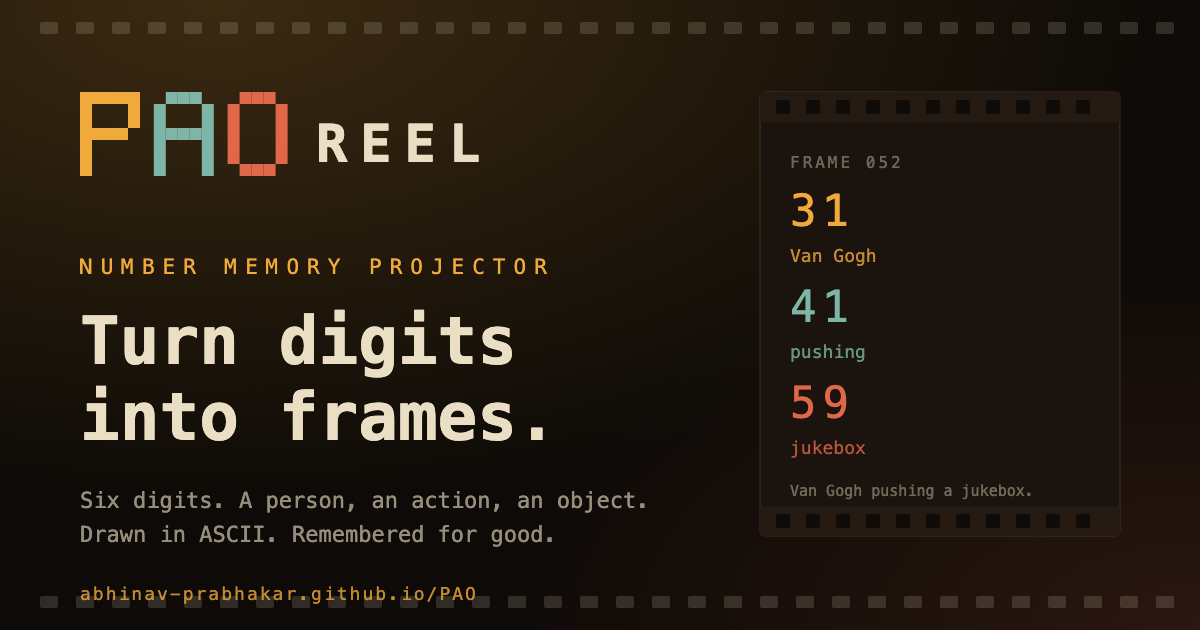
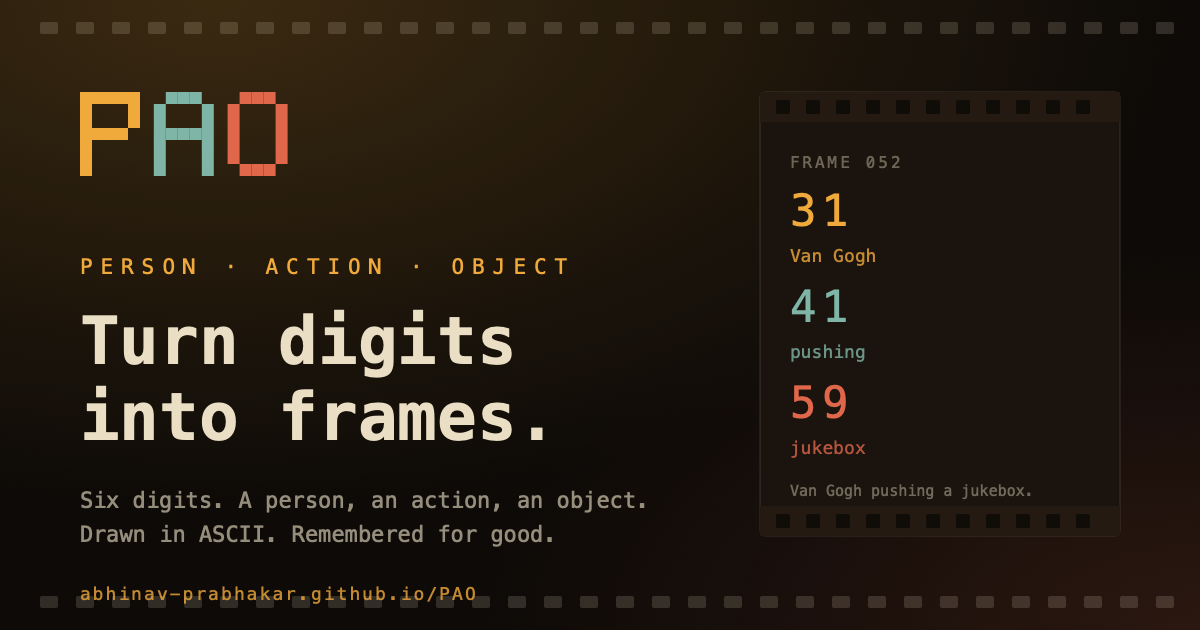
chore: rename the site to PAO

diff --git a/index.html b/index.html
@@ -4,10 +4,10 @@
     <meta charset="UTF-8" />
     <meta name="viewport" content="width=device-width, initial-scale=1.0" />
 
-    <title>PAO Reel — Number Memory Projector</title>
+    <title>PAO</title>
     <meta
       name="description"
-      content="PAO Reel turns long digit strings into six-digit film frames: a Person, an Action, and an Object drawn in ASCII, with a recall trainer."
+      content="PAO turns long digit strings into six-digit film frames: a Person, an Action, and an Object drawn in ASCII, with a recall trainer."
     />
     <meta name="application-name" content="PAO" />
     <meta name="color-scheme" content="dark" />
@@ -25,10 +25,10 @@
     <meta name="apple-mobile-web-app-title" content="PAO" />
 
     <meta property="og:type" content="website" />
-    <meta property="og:site_name" content="PAO Reel" />
+    <meta property="og:site_name" content="PAO" />
     <meta property="og:locale" content="en_US" />
     <meta property="og:url" content="https://abhinav-prabhakar.github.io/PAO/" />
-    <meta property="og:title" content="PAO Reel — Number Memory Projector" />
+    <meta property="og:title" content="PAO" />
     <meta
       property="og:description"
       content="Six digits become a Person, an Action, and an Object drawn in ASCII. A projector for pi, phone numbers, and anything worth remembering."
@@ -36,10 +36,10 @@
     <meta property="og:image" content="https://abhinav-prabhakar.github.io/PAO/og.png" />
     <meta property="og:image:width" content="1200" />
     <meta property="og:image:height" content="630" />
-    <meta property="og:image:alt" content="PAO Reel — turn digits into frames." />
+    <meta property="og:image:alt" content="PAO — turn digits into frames." />
 
     <meta name="twitter:card" content="summary_large_image" />
-    <meta name="twitter:title" content="PAO Reel — Number Memory Projector" />
+    <meta name="twitter:title" content="PAO" />
     <meta
       name="twitter:description"
       content="Six digits become a Person, an Action, and an Object drawn in ASCII. A projector for pi, phone numbers, and anything worth remembering."
@@ -50,7 +50,7 @@
       {
         "@context": "https://schema.org",
         "@type": "WebApplication",
-        "name": "PAO Reel",
+        "name": "PAO",
         "url": "https://abhinav-prabhakar.github.io/PAO/",
         "description": "Turn long digit strings into six-digit film frames: a Person, an Action, and an Object drawn in ASCII, with a recall trainer.",
         "applicationCategory": "EducationalApplication",

diff --git a/src/lib/artifact.ts b/src/lib/artifact.ts
@@ -28,7 +28,7 @@ export function permalinkFor(digits: string) {
 export function reelText(chunks: Chunk[], digits: string, source: string) {
   const line = '─'.repeat(46)
   const head = [
-    'PAO REEL',
+    'PAO',
     line,
     `${pad3(chunks.length)} frames · ${String(digits.length).padStart(4, '0')} digits`,
     `source ${sourceLabel(source)}`,
@@ -93,7 +93,7 @@ export function contactSheetHtml(chunks: Chunk[], digits: string, source: string
 <head>
 <meta charset="utf-8">
 <meta name="viewport" content="width=device-width, initial-scale=1">
-<title>PAO Reel — Contact Sheet</title>
+<title>PAO — Contact Sheet</title>
 <style>
   @page { size: A4 portrait; margin: 10mm; }
   * { box-sizing: border-box; }
@@ -165,7 +165,7 @@ export function contactSheetHtml(chunks: Chunk[], digits: string, source: string
 <body>
 <header class="sheet">
   <div>
-    <h1>PAO Reel</h1>
+    <h1>PAO</h1>
     <div class="sub">contact sheet · ${pad3(chunks.length)} frames · ${String(digits.length).padStart(4, '0')} digits · source ${escapeHtml(
       sourceLabel(source),
     )}</div>
@@ -186,7 +186,7 @@ export function downloadReel(chunks: Chunk[], digits: string, source: string) {
   const url = URL.createObjectURL(blob)
   const a = document.createElement('a')
   a.href = url
-  a.download = `pao-reel-${chunks.length}f.txt`
+  a.download = `pao-${chunks.length}f.txt`
   document.body.appendChild(a)
   a.click()
   a.remove()

diff --git a/public/sw.js b/public/sw.js
@@ -1,5 +1,5 @@
-/* PAO Reel — offline shell. The whole app is inlined into index.html. */
-const CACHE = 'pao-reel-v2'
+/* PAO — offline shell. The whole app is inlined into index.html. */
+const CACHE = 'pao-v3'
 const SHELL = [
   './',
   './index.html',

diff --git a/design.md b/design.md
@@ -1,4 +1,4 @@
-# PAO Reel — Design System
+# PAO — Design System
 
 > A number-memory projector. Digits become six-frame reels; each reel is a
 > Person, an Action, and an Object, drawn as ASCII. The interface should feel
@@ -505,7 +505,7 @@ These surfaces extend the film metaphor rather than adding new chrome.
   works from a GitHub Pages subpath and offline.
 - `public/` holds `manifest.webmanifest`, `sw.js`, `robots.txt`, `sitemap.xml`,
   `og.png`, and icons.
-- Manifest `id` is unique to the app path (`./?app=pao-reel`), not a generic
+- Manifest `id` is unique to the app path (`./?app=pao`), not a generic
   origin root, so it cannot collide with another installed PWA.
 - Service worker is registered **production only**, caches the shell and icons,
   and updates with `skipWaiting` + `clients.claim`. Never register it in dev.

diff --git a/README.md b/README.md
@@ -1,8 +1,8 @@
 <div align="center">
 
-<img src="public/og.png" alt="PAO Reel — turn digits into frames" width="920" />
+<img src="public/og.png" alt="PAO — turn digits into frames" width="920" />
 
-# PAO Reel
+# PAO
 
 **Turn digits into frames.**
 
